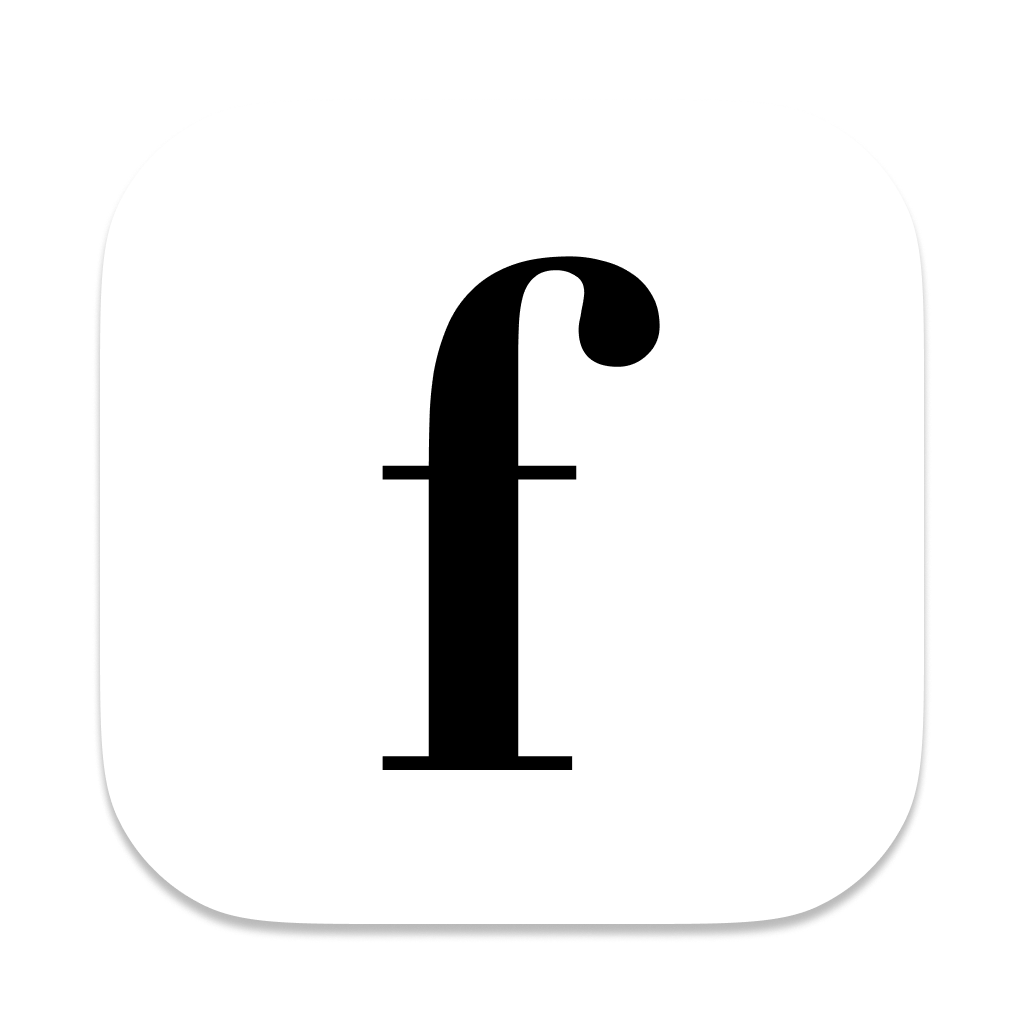
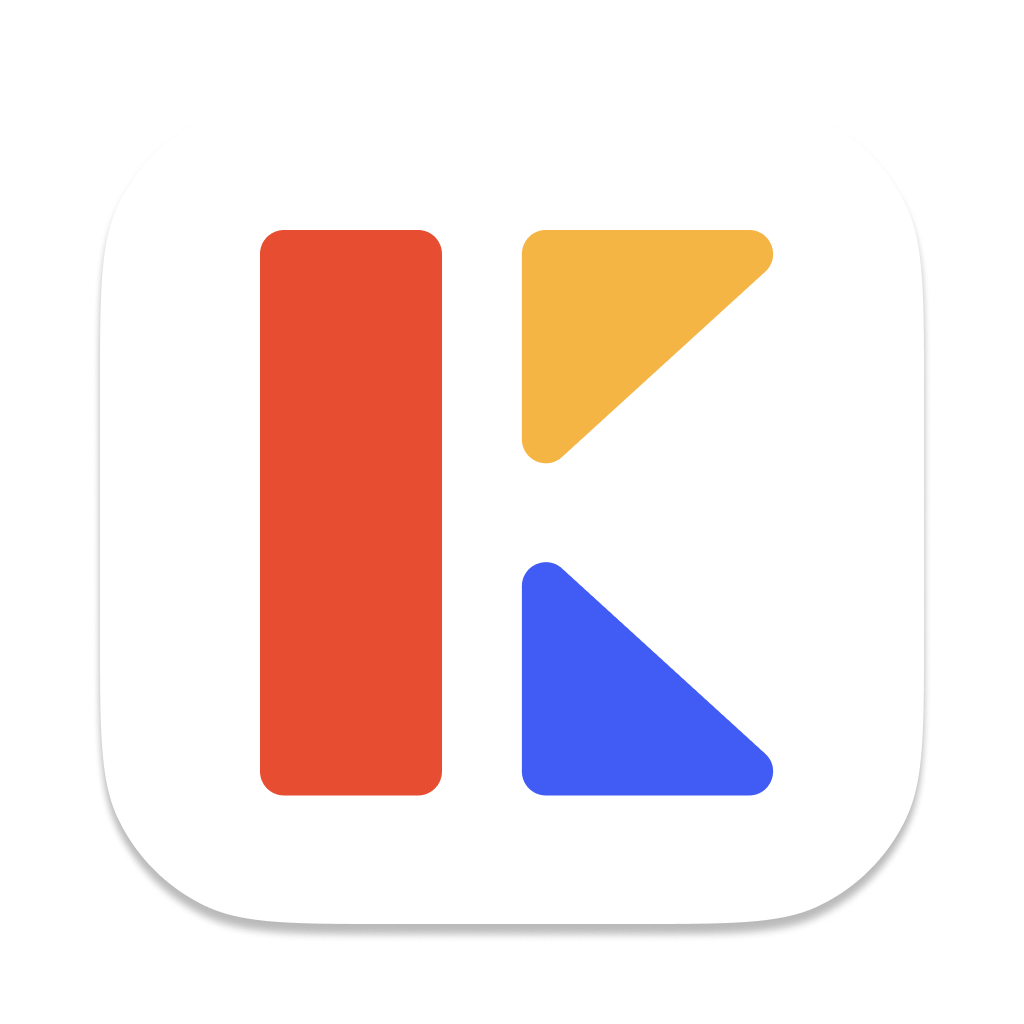
Rebrand!

Changed region(s): [[0.25, 0.2188, 0.75, 0.7812]]

diff --git a/studio/web_ui/src/routes/(app)/+layout.svelte b/studio/web_ui/src/routes/(app)/+layout.svelte
@@ -4,7 +4,7 @@
 
 <div class="navbar bg-base-100 container mx-auto">
   <div class="flex-1">
-    <a class="btn btn-ghost normal-case text-xl" href="/">Fune Studio</a>
+    <a class="btn btn-ghost normal-case text-xl" href="/">Kiln Studio</a>
   </div>
   <div class="flex-none">
     <ul class="menu menu-horizontal px-1 hidden sm:flex font-bold text-lg">
@@ -56,7 +56,7 @@
       <span class="footer-title opacity-80">Explore</span>
       <a class="link link-hover mb-1" href="/">Home</a>
       <a class="link link-hover mb-1" href="/">Home Again</a>
-      <a class="link link-hover my-1" href="https://github.com/scosman/fune"
+      <a class="link link-hover my-1" href="https://github.com/kiln-ai"
         >Github</a
       >
     </nav>

diff --git a/studio/web_ui/src/routes/(app)/+page.svelte b/studio/web_ui/src/routes/(app)/+page.svelte
@@ -29,7 +29,7 @@
       <div
         class="text-xl md:text-3xl font-bold bg-clip-text text-transparent bg-gradient-to-r from-primary to-accent mb-4 md:mb-8"
       >
-        Fune Studio
+        Kiln Studio
       </div>
 
       <div
@@ -44,7 +44,7 @@
         <span> ML product platform</span>
       </div>
       <div class="mt-16 md:mt-6">
-        <a href="https://github.com/scosman/fune">
+        <a href="https://github.com/kiln-ai">
           <button class="btn btn-primary px-6">★ US ON GITHUB</button>
         </a>
       </div>

diff --git a/studio/web_ui/src/config.ts b/studio/web_ui/src/config.ts
@@ -1,3 +1,3 @@
-export const WebsiteName: string = "Fune"
-export const WebsiteBaseUrl: string = "https://saasstarter.work"
-export const WebsiteDescription: string = "Build ML Products with Fune Studio"
+export const WebsiteName: string = "Kiln Studio"
+export const WebsiteBaseUrl: string = "https://kiln-ai.com"
+export const WebsiteDescription: string = "Build ML Products with Kiln Studio"

diff --git a/desktop/desktop.py b/desktop/desktop.py
@@ -90,12 +90,12 @@ def run_taskbar():
     make_open_studio_default = sys.platform == "Windows"
     menu = (
         pystray.MenuItem(
-            "Open Fune Studio", show_studio, default=make_open_studio_default
+            "Open Kiln Studio", show_studio, default=make_open_studio_default
         ),
         pystray.MenuItem("Quit", on_quit),
     )
     global tray
-    tray = pystray.Icon("fune", image, "fune", menu)
+    tray = pystray.Icon("kiln", image, "kiln", menu)
     # running detached since we use tk mainloop to get events from dock icon
     tray.run_detached()
     return tray
@@ -127,7 +127,7 @@ if __name__ == "__main__":
             on_quit()
         # TK without a window, to get dock events on MacOS
         root = tk.Tk()
-        root.title("fune")
+        root.title("kiln")
         root.withdraw()  # remove the window
         # Register callback for the dock icon to reopen the web app
         root.createcommand("tk::mac::ReopenApplication", show_studio)

diff --git a/server/server.py b/server/server.py
@@ -23,10 +23,10 @@ app = FastAPI()
 
 
 def settings_path(create=True):
-    funedir = os.path.join(Path.home(), ".fune")
-    if create and not os.path.exists(funedir):
-        os.makedirs(funedir)
-    return os.path.join(funedir, "settings.yaml")
+    settings_dir = os.path.join(Path.home(), ".kiln_ai")
+    if create and not os.path.exists(settings_dir):
+        os.makedirs(settings_dir)
+    return os.path.join(settings_dir, "settings.yaml")
 
 
 def load_settings():

diff --git a/desktop/README.md b/desktop/README.md
@@ -2,9 +2,9 @@
 
 How to sign on of the builds from GitHub Actions for official release.
 
-Easy way, but just signs with personal ID, not developer ID: `codesign --force --deep -s - fune.app`
+Easy way, but just signs with personal ID, not developer ID: `codesign --force --deep -s - kiln.app`
 
 Proper way with a developer ID:
 
 1. Get developer ID name: `security find-identity -v -p codesigning`
-2. Run `codesign --force --deep -s "Developer ID Application: YOUR NAME (XXXXXXXX)" fune.app`
+2. Run `codesign --force --deep -s "Developer ID Application: YOUR NAME (XXXXXXXX)" kiln.app`
